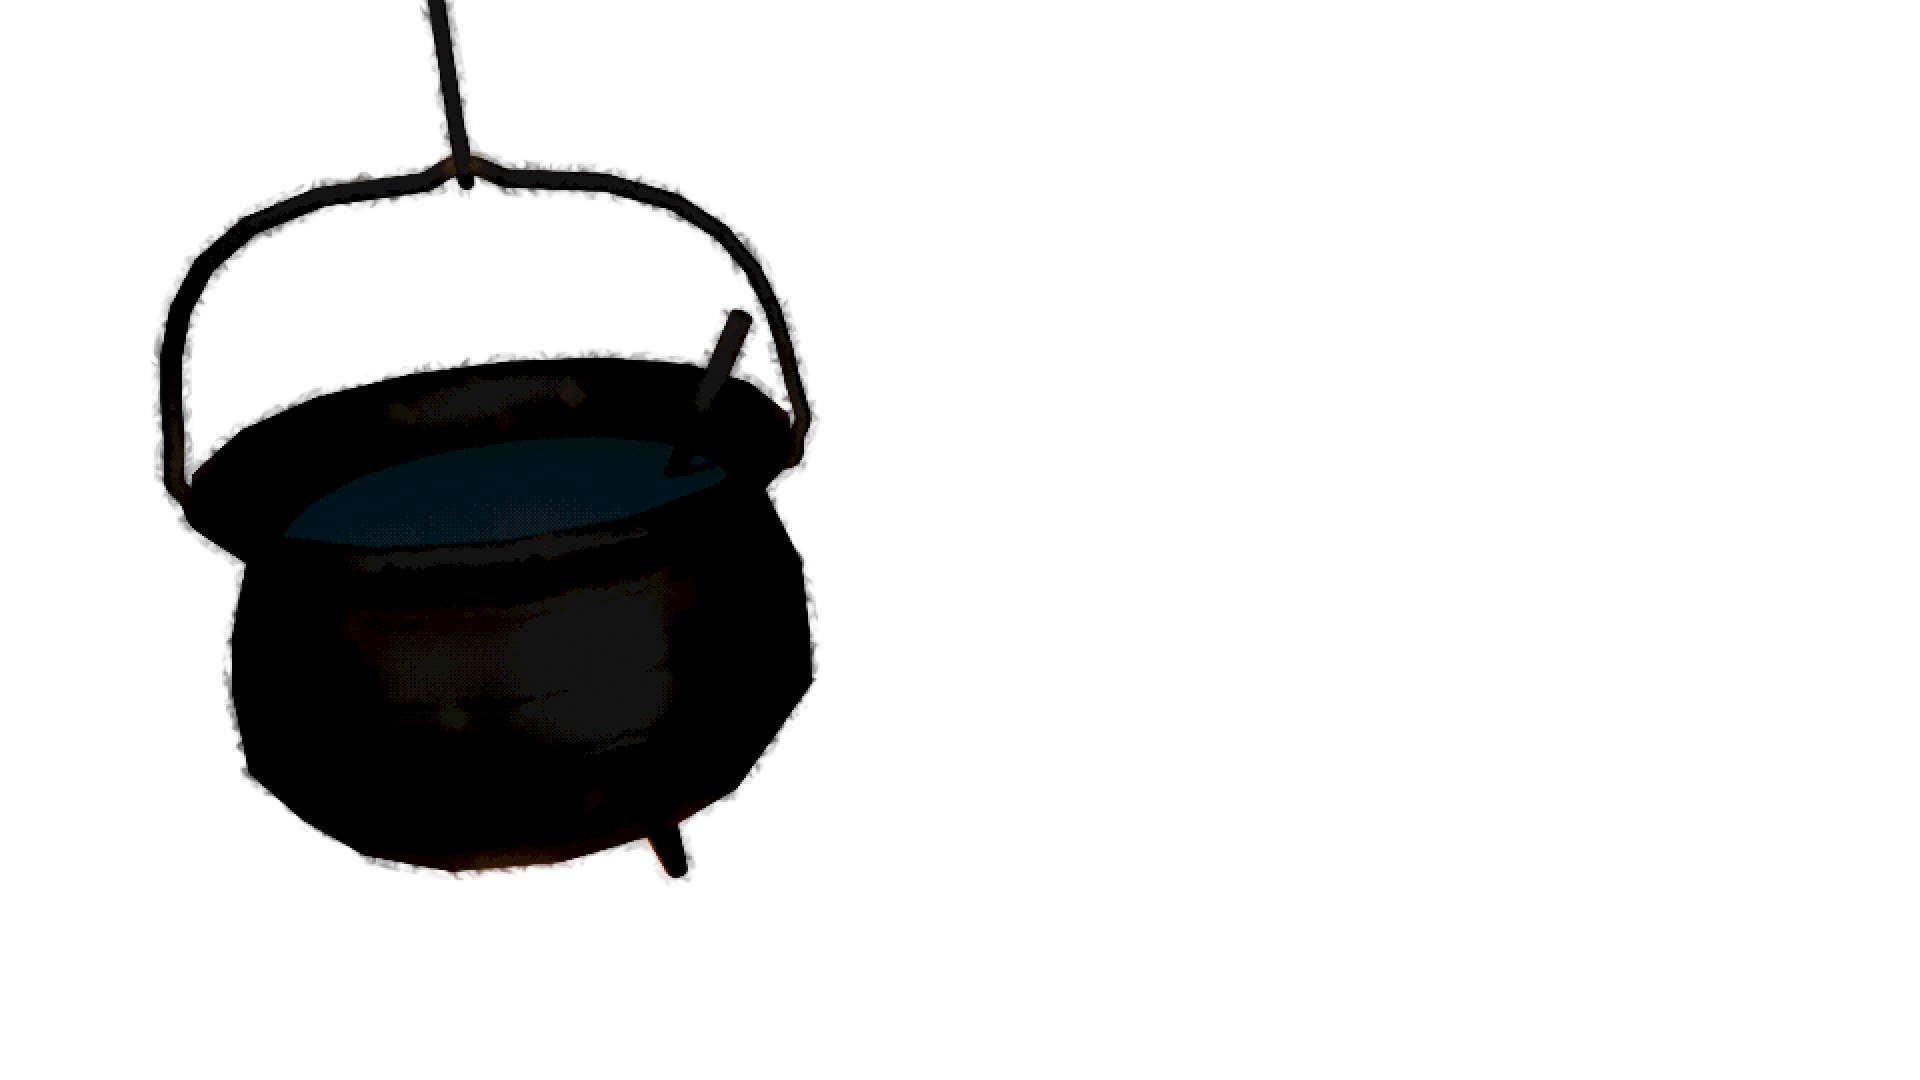
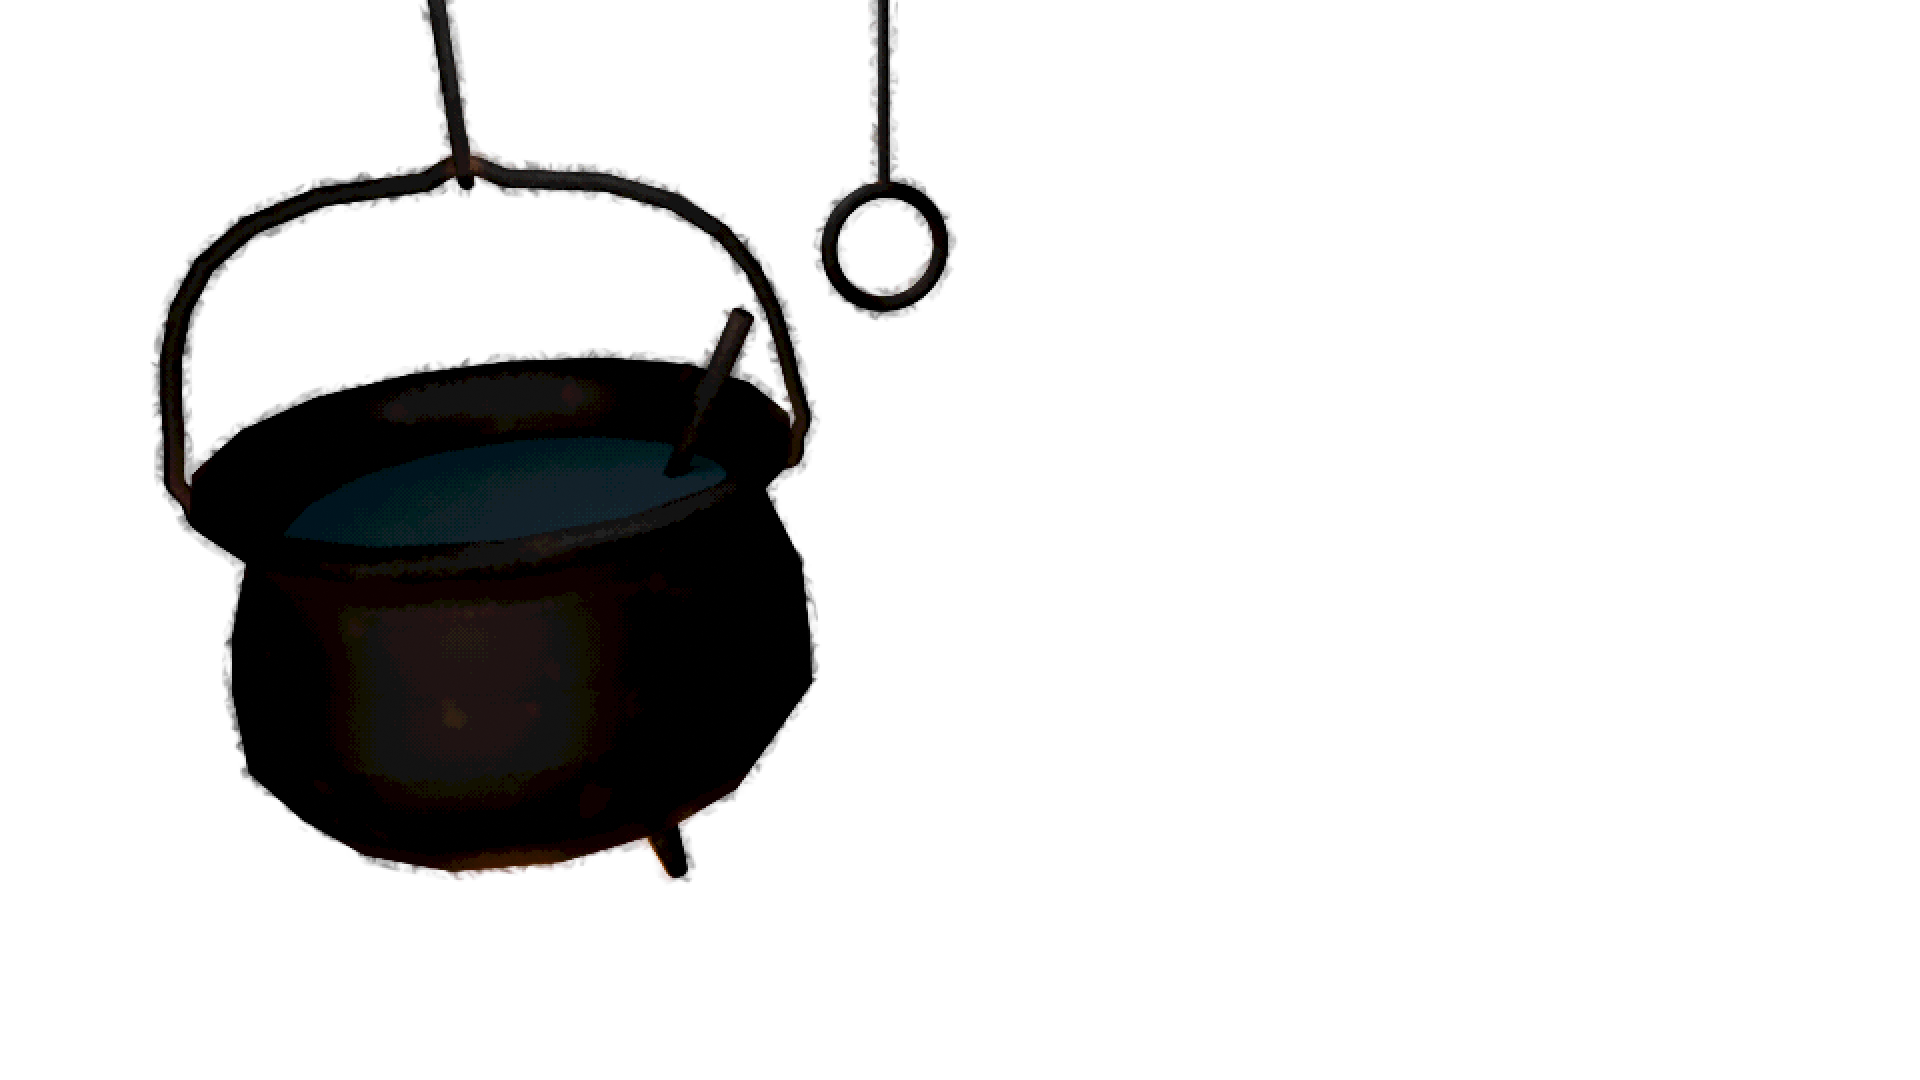
More Graphics and Mortar animation

diff --git a/src/game/animation.rs b/src/game/animation.rs
@@ -5,10 +5,20 @@
 //! - [Timers](https://github.com/bevyengine/bevy/blob/latest/examples/time/timers.rs)
 
 use bevy::prelude::*;
-use tracing::Level;
 use std::time::Duration;
+use tracing::Level;
 
-use crate::{AppSystems, PausableSystems, game::level::LevelAssets, screens::{Screen::Gameplay, gameplay::{ShopArea::{self, CookingArea}, cooking_area::Stirer}}};
+use crate::{
+    AppSystems, PausableSystems,
+    game::level::LevelAssets,
+    screens::{
+        Screen::Gameplay,
+        gameplay::{
+            ShopArea::{self, CookingArea, Storefront},
+            cooking_area::Stirer,
+        },
+    },
+};
 
 pub(super) fn plugin(app: &mut App) {
     // Animate and play sound effects based on controls.
@@ -20,23 +30,36 @@ pub(super) fn plugin(app: &mut App) {
                 update_transition_animation_timer,
                 update_cauldron_empty_animation_timer,
                 update_stirer_animation_timer,
+                update_mortar_animation_timer,
             )
                 .in_set(AppSystems::TickTimers),
             (
                 update_fire_animation_sprite.run_if(in_state(ShopArea::CookingArea)),
                 update_transition_animation_sprite.run_if(in_state(ShopArea::TransitionAnimation)),
                 next_state_when_transition_finished.run_if(in_state(ShopArea::TransitionAnimation)),
-                (update_cauldron_empty_animation_sprite,
-                reverse_anim_when_cauldron_empty_finished,).chain().run_if(in_state(ShopArea::CookingArea)),
-                (update_stirer_animation_sprite,remove_component_when_animation_finished).chain().run_if(in_state(ShopArea::CookingArea))
-
-
+                (
+                    update_cauldron_empty_animation_sprite,
+                    reverse_anim_when_cauldron_empty_finished,
+                )
+                    .chain()
+                    .run_if(in_state(ShopArea::CookingArea)),
+                (
+                    update_stirer_animation_sprite,
+                    remove_component_when_animation_finished,
+                )
+                    .chain()
+                    .run_if(in_state(ShopArea::CookingArea)),
+                (
+                    update_mortar_animation_sprite,
+                    remove_component_when_animation_finished_mortar,
+                )
+                    .chain()
+                    .run_if(in_state(ShopArea::Storefront)),
             )
                 .in_set(AppSystems::Update),
         )
             .in_set(PausableSystems),
     );
-
 }
 
 /// Update the animation timer.
@@ -194,9 +217,11 @@ fn update_transition_animation_sprite(
     }
 }
 
-
 /// Update the animation timer.
-fn update_cauldron_empty_animation_timer(time: Res<Time>, mut query: Query<&mut CauldronAnimation>) {
+fn update_cauldron_empty_animation_timer(
+    time: Res<Time>,
+    mut query: Query<&mut CauldronAnimation>,
+) {
     for mut animation in &mut query {
         animation.update_timer(time.delta());
     }
@@ -320,7 +345,6 @@ impl StirerAnimation {
 
     pub fn is_finished(&self) -> bool {
         self.frame >= Self::ANIMATION_FRAMES
-
     }
 
     pub(crate) fn new() -> Self {
@@ -352,7 +376,7 @@ fn update_stirer_animation_sprite(
 }
 
 fn remove_component_when_animation_finished(
-    transitions: Query<(Entity,&StirerAnimation)>,
+    transitions: Query<(Entity, &StirerAnimation)>,
     mut commands: Commands,
 ) {
     for (entity, anim) in transitions {
@@ -362,6 +386,80 @@ fn remove_component_when_animation_finished(
     }
 }
 
+/// Update the animation timer.
+fn update_mortar_animation_timer(time: Res<Time>, mut query: Query<&mut MortarAnimation>) {
+    for mut animation in &mut query {
+        animation.update_timer(time.delta());
+    }
+}
+/// Component that tracks fire's animation state.
+#[derive(Component, Default, Clone)]
+pub struct MortarAnimation {
+    timer: Timer,
+    frame: usize,
+}
+
+impl MortarAnimation {
+    pub const ANIMATION_FRAMES: usize = 24;
+    const ANIMATION_INTERVAL: Duration = Duration::from_millis(42);
+    /// Update animation timers.
+    pub fn update_timer(&mut self, delta: Duration) {
+        self.timer.tick(delta);
+        if !self.timer.is_finished() {
+            return;
+        }
+        if self.frame < Self::ANIMATION_FRAMES {
+            self.frame += 1;
+        }
+    }
+
+    /// Whether animation changed this tick.
+    pub fn changed(&self) -> bool {
+        self.timer.is_finished()
+    }
+
+    pub fn is_finished(&self) -> bool {
+        self.frame >= Self::ANIMATION_FRAMES
+    }
+
+    pub(crate) fn new() -> Self {
+        Self {
+            timer: Timer::new(Self::ANIMATION_INTERVAL, TimerMode::Repeating),
+            frame: 0,
+        }
+    }
+}
+
+/// Update the texture to reflect changes in the animation.
+fn update_mortar_animation_sprite(
+    mut query: Query<(&MortarAnimation, &mut Sprite)>,
+    level_assets: If<Res<LevelAssets>>,
+) {
+    for (animation, mut sprite) in &mut query {
+        if animation.changed() {
+            sprite.image = level_assets
+                .mortar
+                .get(
+                    animation
+                        .frame
+                        .clamp(0, MortarAnimation::ANIMATION_FRAMES - 1),
+                )
+                .unwrap()
+                .clone();
+        }
+    }
+}
+
+fn remove_component_when_animation_finished_mortar(
+    transitions: Query<(Entity, &MortarAnimation)>,
+    mut commands: Commands,
+) {
+    for (entity, anim) in transitions {
+        if anim.is_finished() {
+            commands.entity(entity).remove::<MortarAnimation>();
+        }
+    }
+}
 
 // /// If the player is moving, play a step sound effect synchronized with the
 // /// animation.

diff --git a/src/game/level.rs b/src/game/level.rs
@@ -41,7 +41,7 @@ pub struct LevelAssets {
     #[dependency]
     pub book_cooking_area: Handle<Image>,
     #[dependency]
-    pub mortar: Handle<Image>,
+    pub mortar: Vec<Handle<Image>>,
     #[dependency]
     pub book_highlight_cooking_area: Handle<Image>,
     #[dependency]
@@ -86,9 +86,6 @@ pub struct LevelAssets {
     pub stirer: Vec<Handle<Image>>,
     #[dependency]
     pub cauldron_stir_sfx: Handle<AudioSource>,
-
-
-
 }
 
 impl FromWorld for LevelAssets {
@@ -146,7 +143,32 @@ impl FromWorld for LevelAssets {
             ],
             fire_off: assets.load("images/foreground/fire/FireOff.png"),
             fire_highlight: assets.load("images/highlight/Fire.png"),
-            mortar: assets.load("images/foreground/Mortar.png"),
+            mortar: vec![
+                assets.load("images/foreground/mortar/Mortar0001.png"),
+                assets.load("images/foreground/mortar/Mortar0002.png"),
+                assets.load("images/foreground/mortar/Mortar0003.png"),
+                assets.load("images/foreground/mortar/Mortar0004.png"),
+                assets.load("images/foreground/mortar/Mortar0005.png"),
+                assets.load("images/foreground/mortar/Mortar0006.png"),
+                assets.load("images/foreground/mortar/Mortar0007.png"),
+                assets.load("images/foreground/mortar/Mortar0008.png"),
+                assets.load("images/foreground/mortar/Mortar0009.png"),
+                assets.load("images/foreground/mortar/Mortar0010.png"),
+                assets.load("images/foreground/mortar/Mortar0011.png"),
+                assets.load("images/foreground/mortar/Mortar0012.png"),
+                assets.load("images/foreground/mortar/Mortar0001.png"),
+                assets.load("images/foreground/mortar/Mortar0002.png"),
+                assets.load("images/foreground/mortar/Mortar0003.png"),
+                assets.load("images/foreground/mortar/Mortar0004.png"),
+                assets.load("images/foreground/mortar/Mortar0005.png"),
+                assets.load("images/foreground/mortar/Mortar0006.png"),
+                assets.load("images/foreground/mortar/Mortar0007.png"),
+                assets.load("images/foreground/mortar/Mortar0008.png"),
+                assets.load("images/foreground/mortar/Mortar0009.png"),
+                assets.load("images/foreground/mortar/Mortar0010.png"),
+                assets.load("images/foreground/mortar/Mortar0011.png"),
+                assets.load("images/foreground/mortar/Mortar0012.png"),
+            ],
             mortar_highlight: assets.load("images/highlight/Mortar.png"),
             transition_animation: vec![
                 assets.load("images/animation/transition/transition0001.png"),
@@ -201,13 +223,13 @@ impl FromWorld for LevelAssets {
             cauldron_empty_sfx: assets.load("audio/sound_effects/emptying_cauldron.mp3"),
             fire_ambience_sfx: assets
                 .load("audio/sound_effects/Fire/engyclick-firewood-burning-sound-179862.mp3"),
-            cauldron_stir_sfx: assets.load("audio/sound_effects/Kessel_Couldron/CouldronStirring.mp3"),
+            cauldron_stir_sfx: assets
+                .load("audio/sound_effects/Kessel_Couldron/CouldronStirring.mp3"),
             // Other
             recipes: assets.load("recipes.ron"),
         }
     }
 }
-
 
 #[derive(Component, Default, Clone)]
 pub struct FireAmbienceSFX;

diff --git a/src/game/mod.rs b/src/game/mod.rs
@@ -6,12 +6,15 @@ use bevy::{
 use crate::{
     audio::sound_effect,
     game::{
-        animation::{CauldronAnimation, FireAnimation, StirerAnimation},
+        animation::{CauldronAnimation, FireAnimation, MortarAnimation, StirerAnimation},
         level::{CauldronAmbienceSFX, FireAmbienceSFX, LevelAssets},
     },
     screens::{
         Screen::Gameplay,
-        gameplay::cooking_area::{Cauldron, Fire, Stirer},
+        gameplay::{
+            cooking_area::{Cauldron, Fire, Stirer},
+            storefront::Mortar,
+        },
     },
     theme::palette::BUTTON_BACKGROUND,
 };
@@ -231,13 +234,27 @@ pub fn on_click_stir_cauldron(
 ) {
     // do not start stiring if cauldron animation already running
     if !cauldron_animation.is_empty() {
-        return
+        return;
     }
     if let Ok(stirer) = stirer.single() {
         commands
             .entity(stirer)
             .insert_if_new(StirerAnimation::new());
         commands.spawn_scene(sound_effect(level_assets.cauldron_stir_sfx.clone()));
+    }
+}
+
+pub fn on_click_morter(
+    _event: On<PointerClick>,
+    mortar: Query<Entity, (With<Mortar>, Without<MortarAnimation>)>,
+    level_assets: If<Res<LevelAssets>>,
+    mut commands: Commands,
+) {
+    if let Ok(mortar) = mortar.single() {
+        commands
+            .entity(mortar)
+            .insert_if_new(MortarAnimation::new());
+        // commands.spawn_scene(sound_effect(level_assets.cauldron_stir_sfx.clone()));
     }
 }
 

diff --git a/src/screens/gameplay/storefront.rs b/src/screens/gameplay/storefront.rs
@@ -4,6 +4,7 @@ use crate::{
     game::{
         item_scene,
         level::{LevelAssets, LevelRoot},
+        on_click_morter,
     },
     screens::{Screen::Gameplay, gameplay::ShopArea},
 };
@@ -16,6 +17,9 @@ pub(super) fn plugin(app: &mut App) {
 }
 
 #[derive(Component, Clone, Default)]
+pub struct Mortar;
+
+#[derive(Component, Clone, Default)]
 struct StorefrontScene;
 
 pub fn storefront_scene(level_assets: &Res<LevelAssets>) -> impl Scene {
@@ -26,8 +30,11 @@ pub fn storefront_scene(level_assets: &Res<LevelAssets>) -> impl Scene {
         Transform::from_xyz(0.0,0.0,-1.0)
         DespawnOnExit<ShopArea>(ShopArea::Storefront)
         Children [
-                @item_scene("Mortar".to_string(), "Grind stuff into other stuff".to_string(), level_assets.mortar.clone(), level_assets.mortar_highlight.clone())
-            --
+                #Mortar
+                Mortar
+                on(on_click_morter)
+                @item_scene("Mortar".to_string(), "Grind stuff into other stuff".to_string(), level_assets.mortar.first().unwrap().clone(), level_assets.mortar_highlight.clone())
+                --
                 @item_scene("Book".to_string(), "Study discovered recipes".to_string(), level_assets.book_storefront.clone(), level_assets.book_highlight_storefront.clone())
             --
                 @item_scene("Flasks".into(), "Holds one standard unit of potion.".into(), level_assets.flask.clone(), level_assets.flask_highlight.clone())
